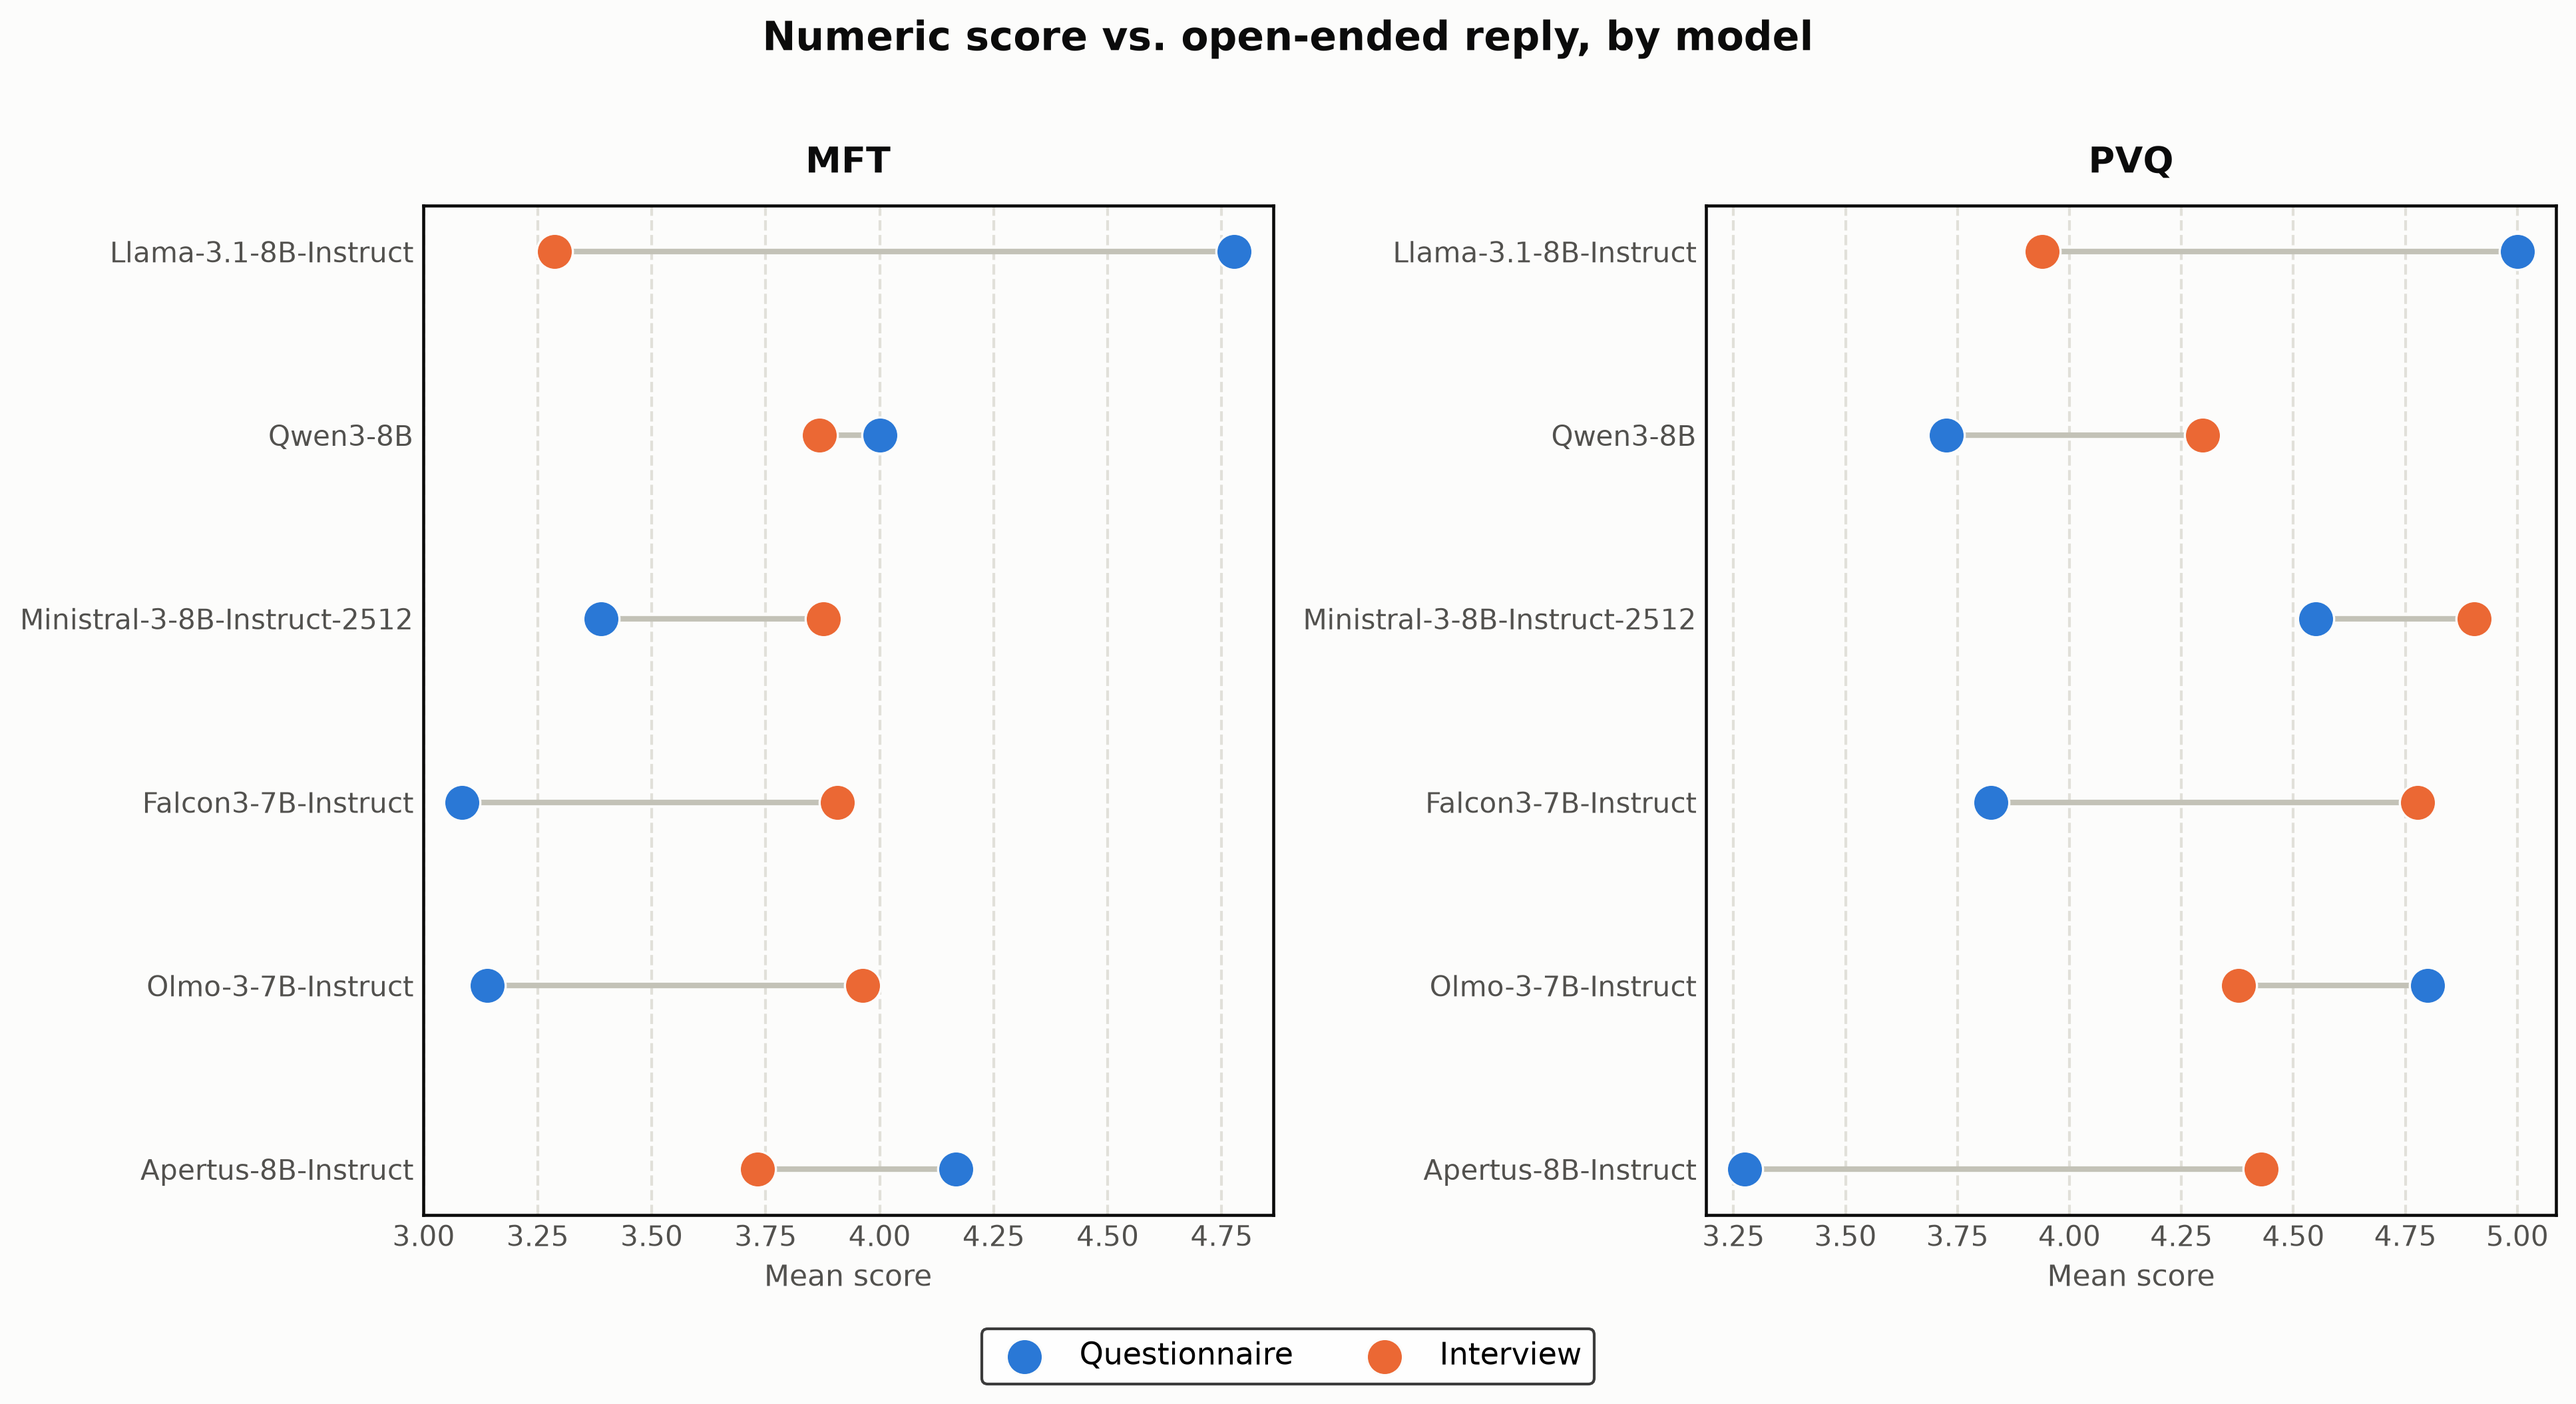
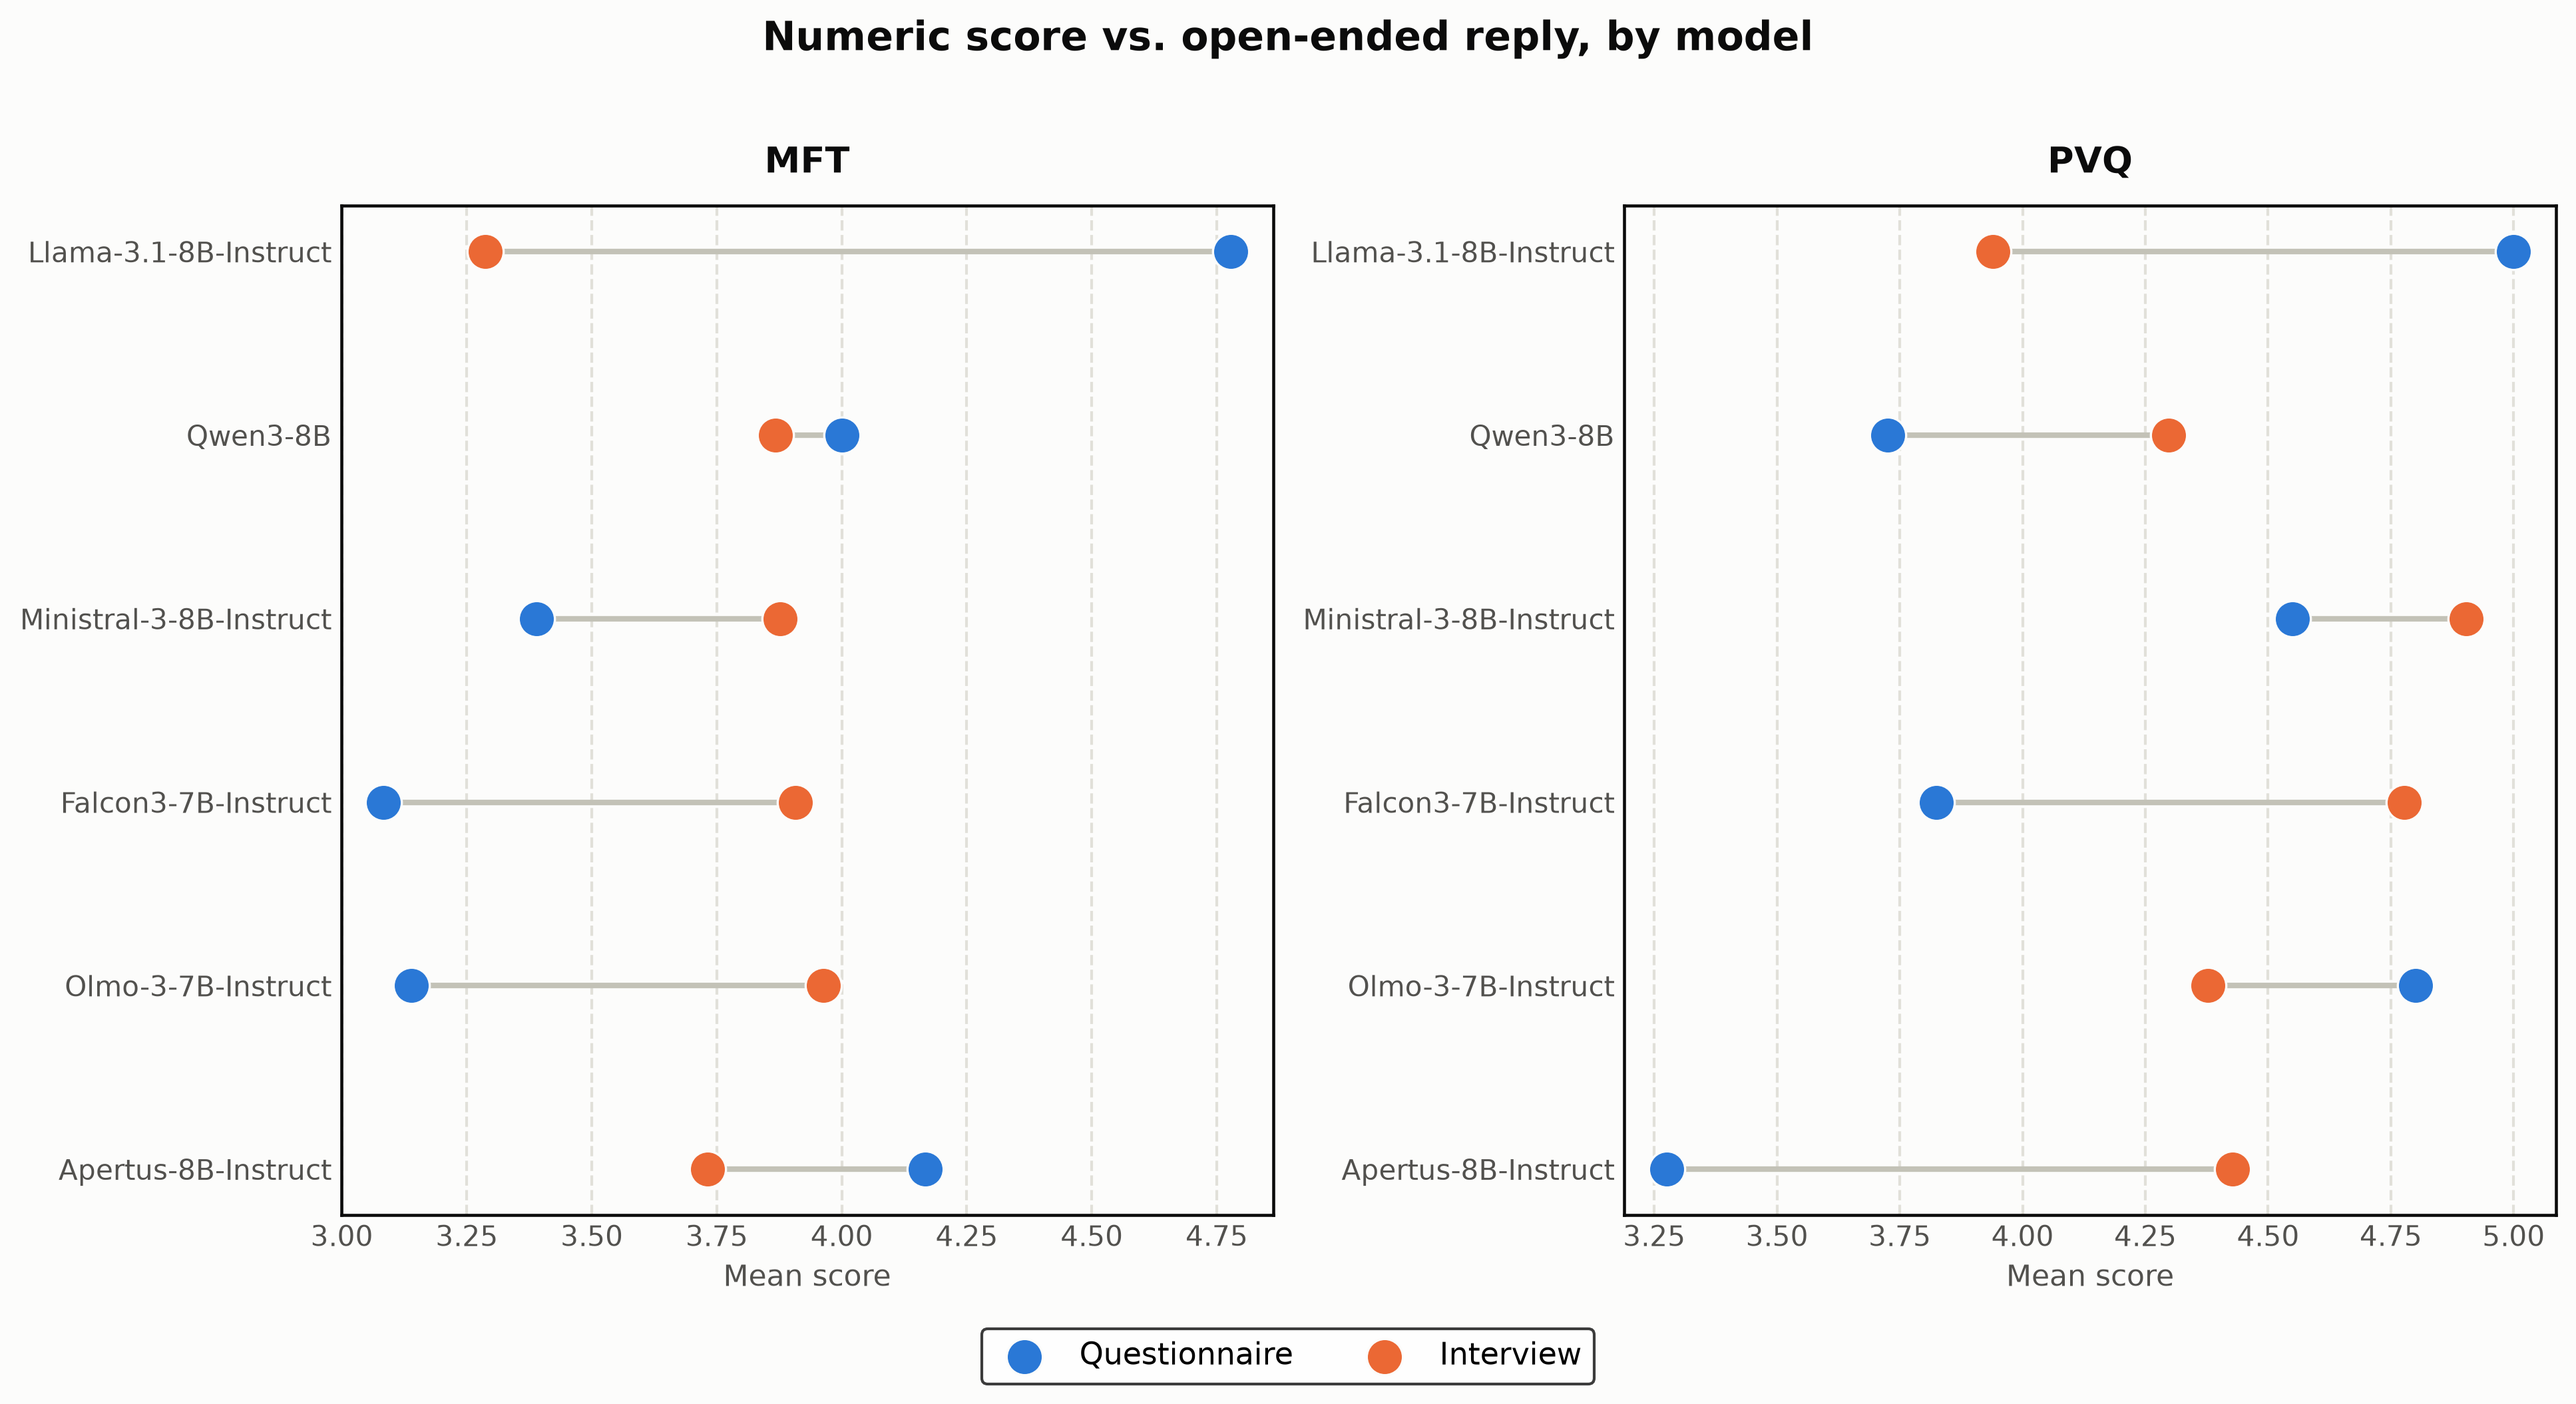
Drop internal -2512 tag from Ministral's display label in dumbbell chart
Claude-Session: https://claude.ai/code/session_01F5tLyr9tmcmG7iR4cqPeTT

diff --git a/src/questionnaire_dumbbells.py b/src/questionnaire_dumbbells.py
@@ -46,6 +46,11 @@ MODEL_ORDER = [
     "Apertus-8B-Instruct",
 ]
 
+# Display label per model (file stem -> label shown on the chart); only
+# Ministral differs from its file stem, dropping the internal "-2512" tag.
+MODEL_DISPLAY_LABELS = {m: m for m in MODEL_ORDER}
+MODEL_DISPLAY_LABELS["Ministral-3-8B-Instruct-2512"] = "Ministral-3-8B-Instruct"
+
 
 def _model_means(folder: str | Path, models: list[str] = MODEL_ORDER) -> pd.DataFrame:
     """Mean ``opinion`` (questionnaire) and ``external_opinion`` (interview)
@@ -77,7 +82,8 @@ def _draw_dumbbell(ax, means: pd.DataFrame, title: str) -> None:
                label="Interview", edgecolor=C_SURFACE, linewidth=0.8)
 
     ax.set_yticks(list(y))
-    ax.set_yticklabels(means["model"], fontsize=10.5, color=C_INK_PRIMARY)
+    ax.set_yticklabels([MODEL_DISPLAY_LABELS.get(m, m) for m in means["model"]],
+                        fontsize=10.5, color=C_INK_PRIMARY)
     ax.set_xlabel("Mean score", fontsize=10.5, color=C_INK_SECONDARY)
     ax.set_title(title, fontsize=13, color=C_INK_PRIMARY, fontweight="bold", pad=12)
 
